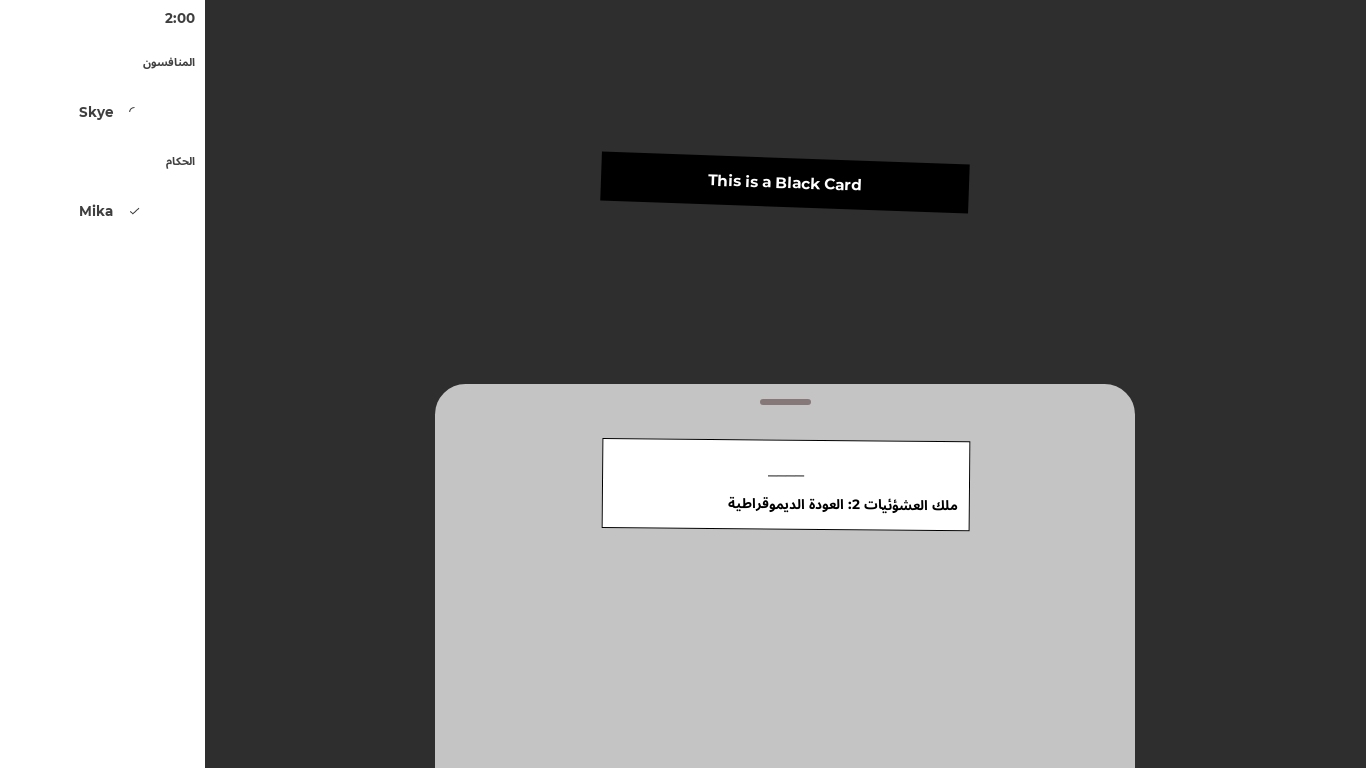
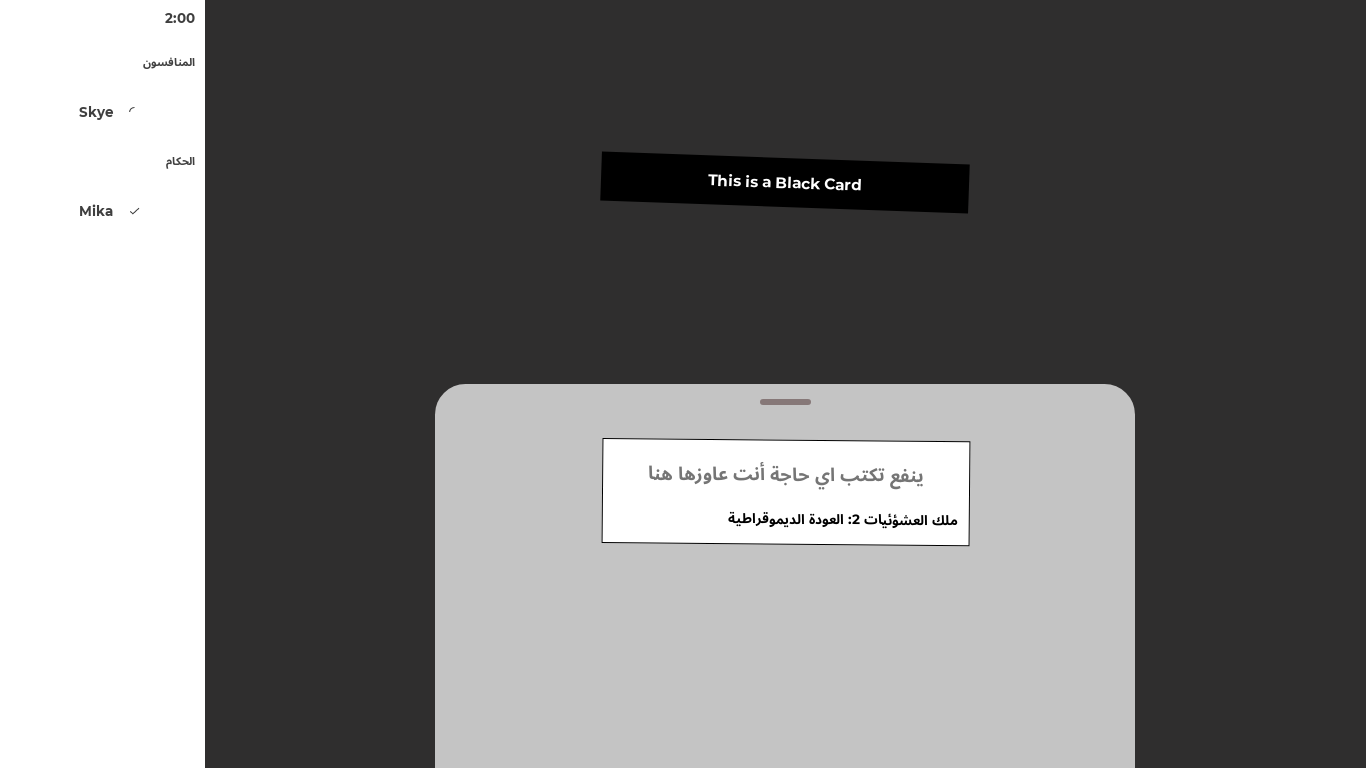
improve blank cards ux

Changed region(s): [[0.4305, 0.5938, 0.7072, 0.7188]]

diff --git a/src/components/card.js b/src/components/card.js
@@ -23,8 +23,6 @@ class Card extends React.Component
   {
     super();
 
-    this.focused = false;
-
     this.state = {
       content: undefined
     };
@@ -34,7 +32,12 @@ class Card extends React.Component
     */
     this.textareaRef = createRef();
 
-    this.back = this.back.bind(this);
+    this.onClick = this.onClick.bind(this);
+
+    this.onFocus = this.onFocus.bind(this);
+    this.onBlur = this.onBlur.bind(this);
+
+    this.onBack = this.onBack.bind(this);
   }
 
   static get size()
@@ -69,7 +72,41 @@ class Card extends React.Component
     };
   }
 
-  back()
+  onFocus()
+  {
+    const { blank } = this.props;
+
+    if (blank)
+      stack.register(this.onBack);
+  }
+
+  onBlur()
+  {
+    stack.unregister(this.onBack);
+
+    this.setState({
+      focused: false
+    });
+  }
+
+  onClick(e)
+  {
+    e?.preventDefault();
+    e?.stopPropagation();
+
+    if (this.props.blank && !this.state.focused)
+    {
+      this.setState({
+        focused: true
+      });
+    }
+    else
+    {
+      this.props.onClick?.(this);
+    }
+  }
+
+  onBack()
   {
     this.textareaRef.current?.blur();
   }
@@ -84,11 +121,10 @@ class Card extends React.Component
   render()
   {
     const {
-      content,
+      content, type,
       style, blank,
       owner, votes,
       gameMode, phase,
-      type, onClick,
       locale, translation
     } = this.props;
 
@@ -107,7 +143,7 @@ class Card extends React.Component
     if (owner && type === 'white')
       bottom = owner;
     else if (gameMode === 'kuruit' && blank && !hidden)
-      bottom = translation('blank');
+      bottom = translation('blank:title');
     else if (gameMode === 'kuruit' && !hidden)
       bottom = translation('kuruit');
     else if (gameMode === 'democracy')
@@ -139,16 +175,7 @@ class Card extends React.Component
         data-allowed={ (allowed || share) && !hidden }
         data-winner={ winner }
         className={ styles.container }
-        onClick={ e =>
-        {
-          e.preventDefault();
-          e.stopPropagation();
-
-          if (blank)
-            stack.register(this.back);
-
-          onClick(this);
-        } }
+        onClick={ this.onClick }
       >
         {
           hidden ? <div className={ styles.hidden } data-type={ type } style={ { direction: locale.direction } }>
@@ -172,42 +199,22 @@ class Card extends React.Component
 
               maxLength={ 105 }
 
-              placeholder={ blank ? translation('blank') : undefined }
+              placeholder={ blank ? translation('blank:placeholder') : undefined }
               
               data-type={ type }
               data-gamemode={ gameMode }
 
               onKeyDown={ e =>
               {
-                if (!this.focused)
-                  return;
-                
-                if (e.code === 'Enter')
-                  onClick(this);
+                if (e.code === 'Enter' && document.activeElement === this.textareaRef.current)
+                  this.onClick(e);
               } }
 
-              onClick={ e =>
-              {
-                this.focused = true;
+              onClick={ this.onClick }
 
-                e.preventDefault();
-                e.stopPropagation();
+              onFocus={ this.onFocus }
 
-                if (blank)
-                  stack.register(this.back);
-
-                onClick(this);
-              } }
-
-              onBlur={ () =>
-              {
-                this.focused = false;
-
-                this.setState({ content: '' });
-
-                if (blank)
-                  stack.unregister(this.back);
-              } }
+              onBlur={ this.onBlur }
 
               onChange={ e => this.onChange(e) }
             />

diff --git a/src/components/handOverlay.js b/src/components/handOverlay.js
@@ -166,15 +166,10 @@ class HandOverlay extends StoreComponent
 
     const { textareaRef } = element;
 
-    const value = textareaRef.current?.value.trim();
+    const content = textareaRef.current?.value.trim();
 
-    if ((card.blank && element.focused && value?.length > 0) || !card.blank)
-      this.sendCard(index, value);
-  }
-
-  sendCard(index, content)
-  {
-    sendMessage('matchLogic', { index, content });
+    if (!card.blank || card.blank && content?.length > 0)
+      sendMessage('matchLogic', { index, content });
   }
 
   render()
